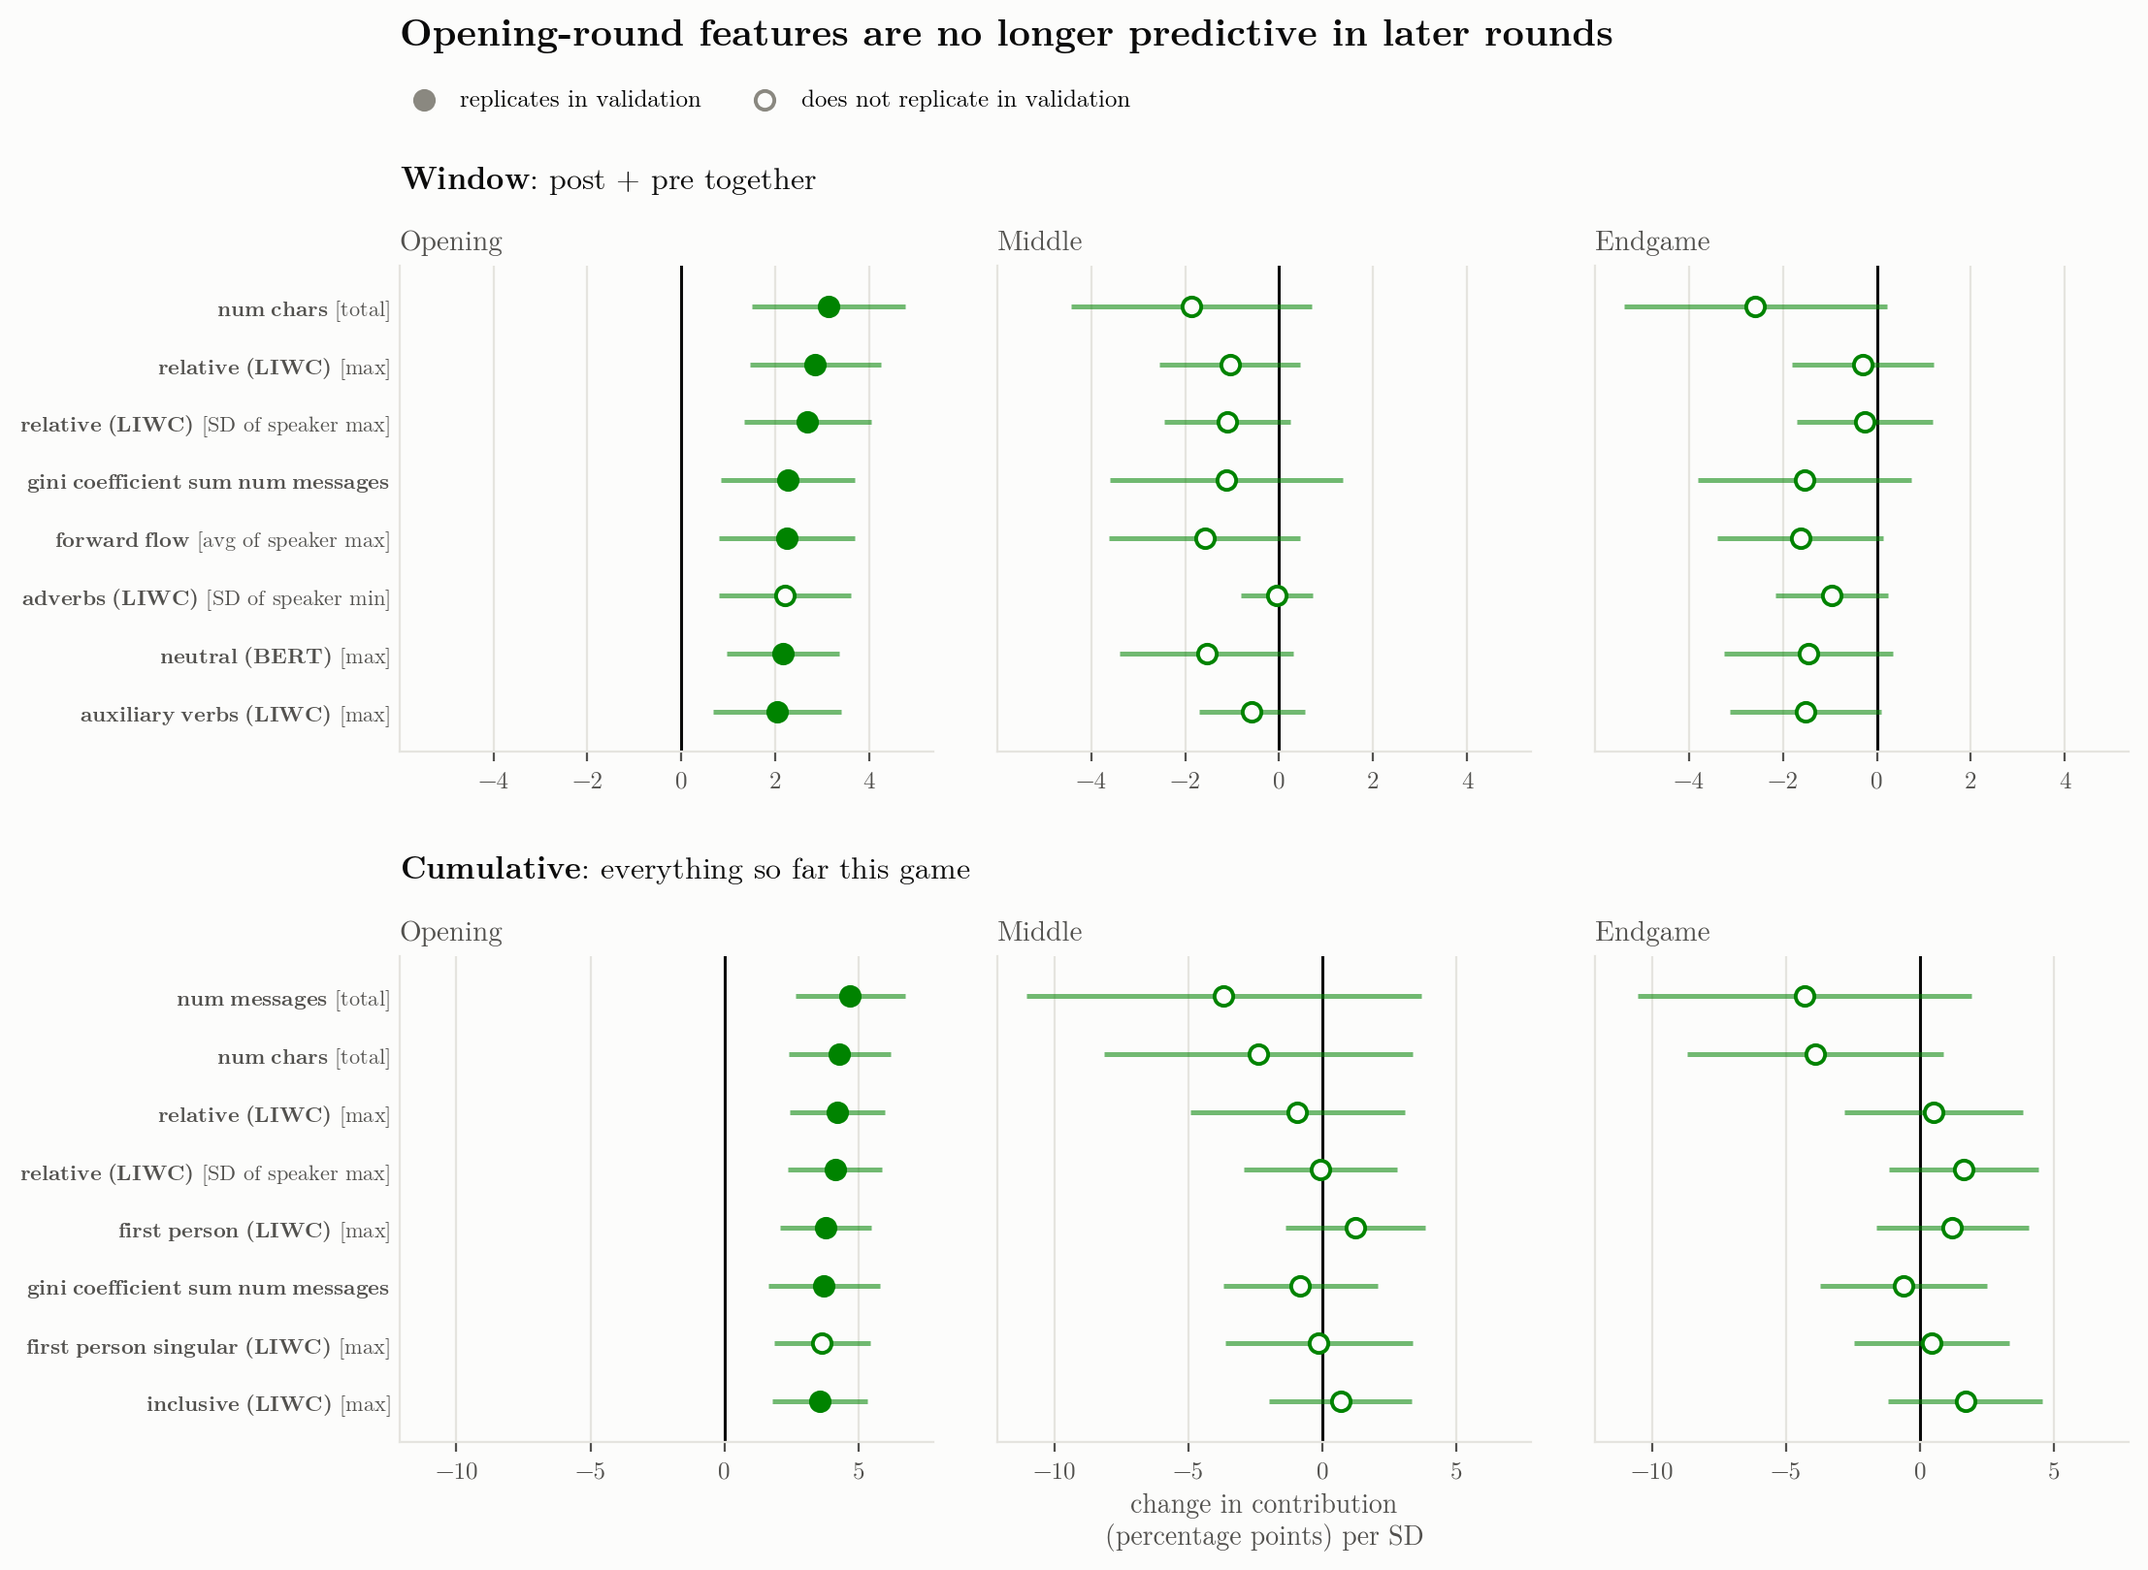
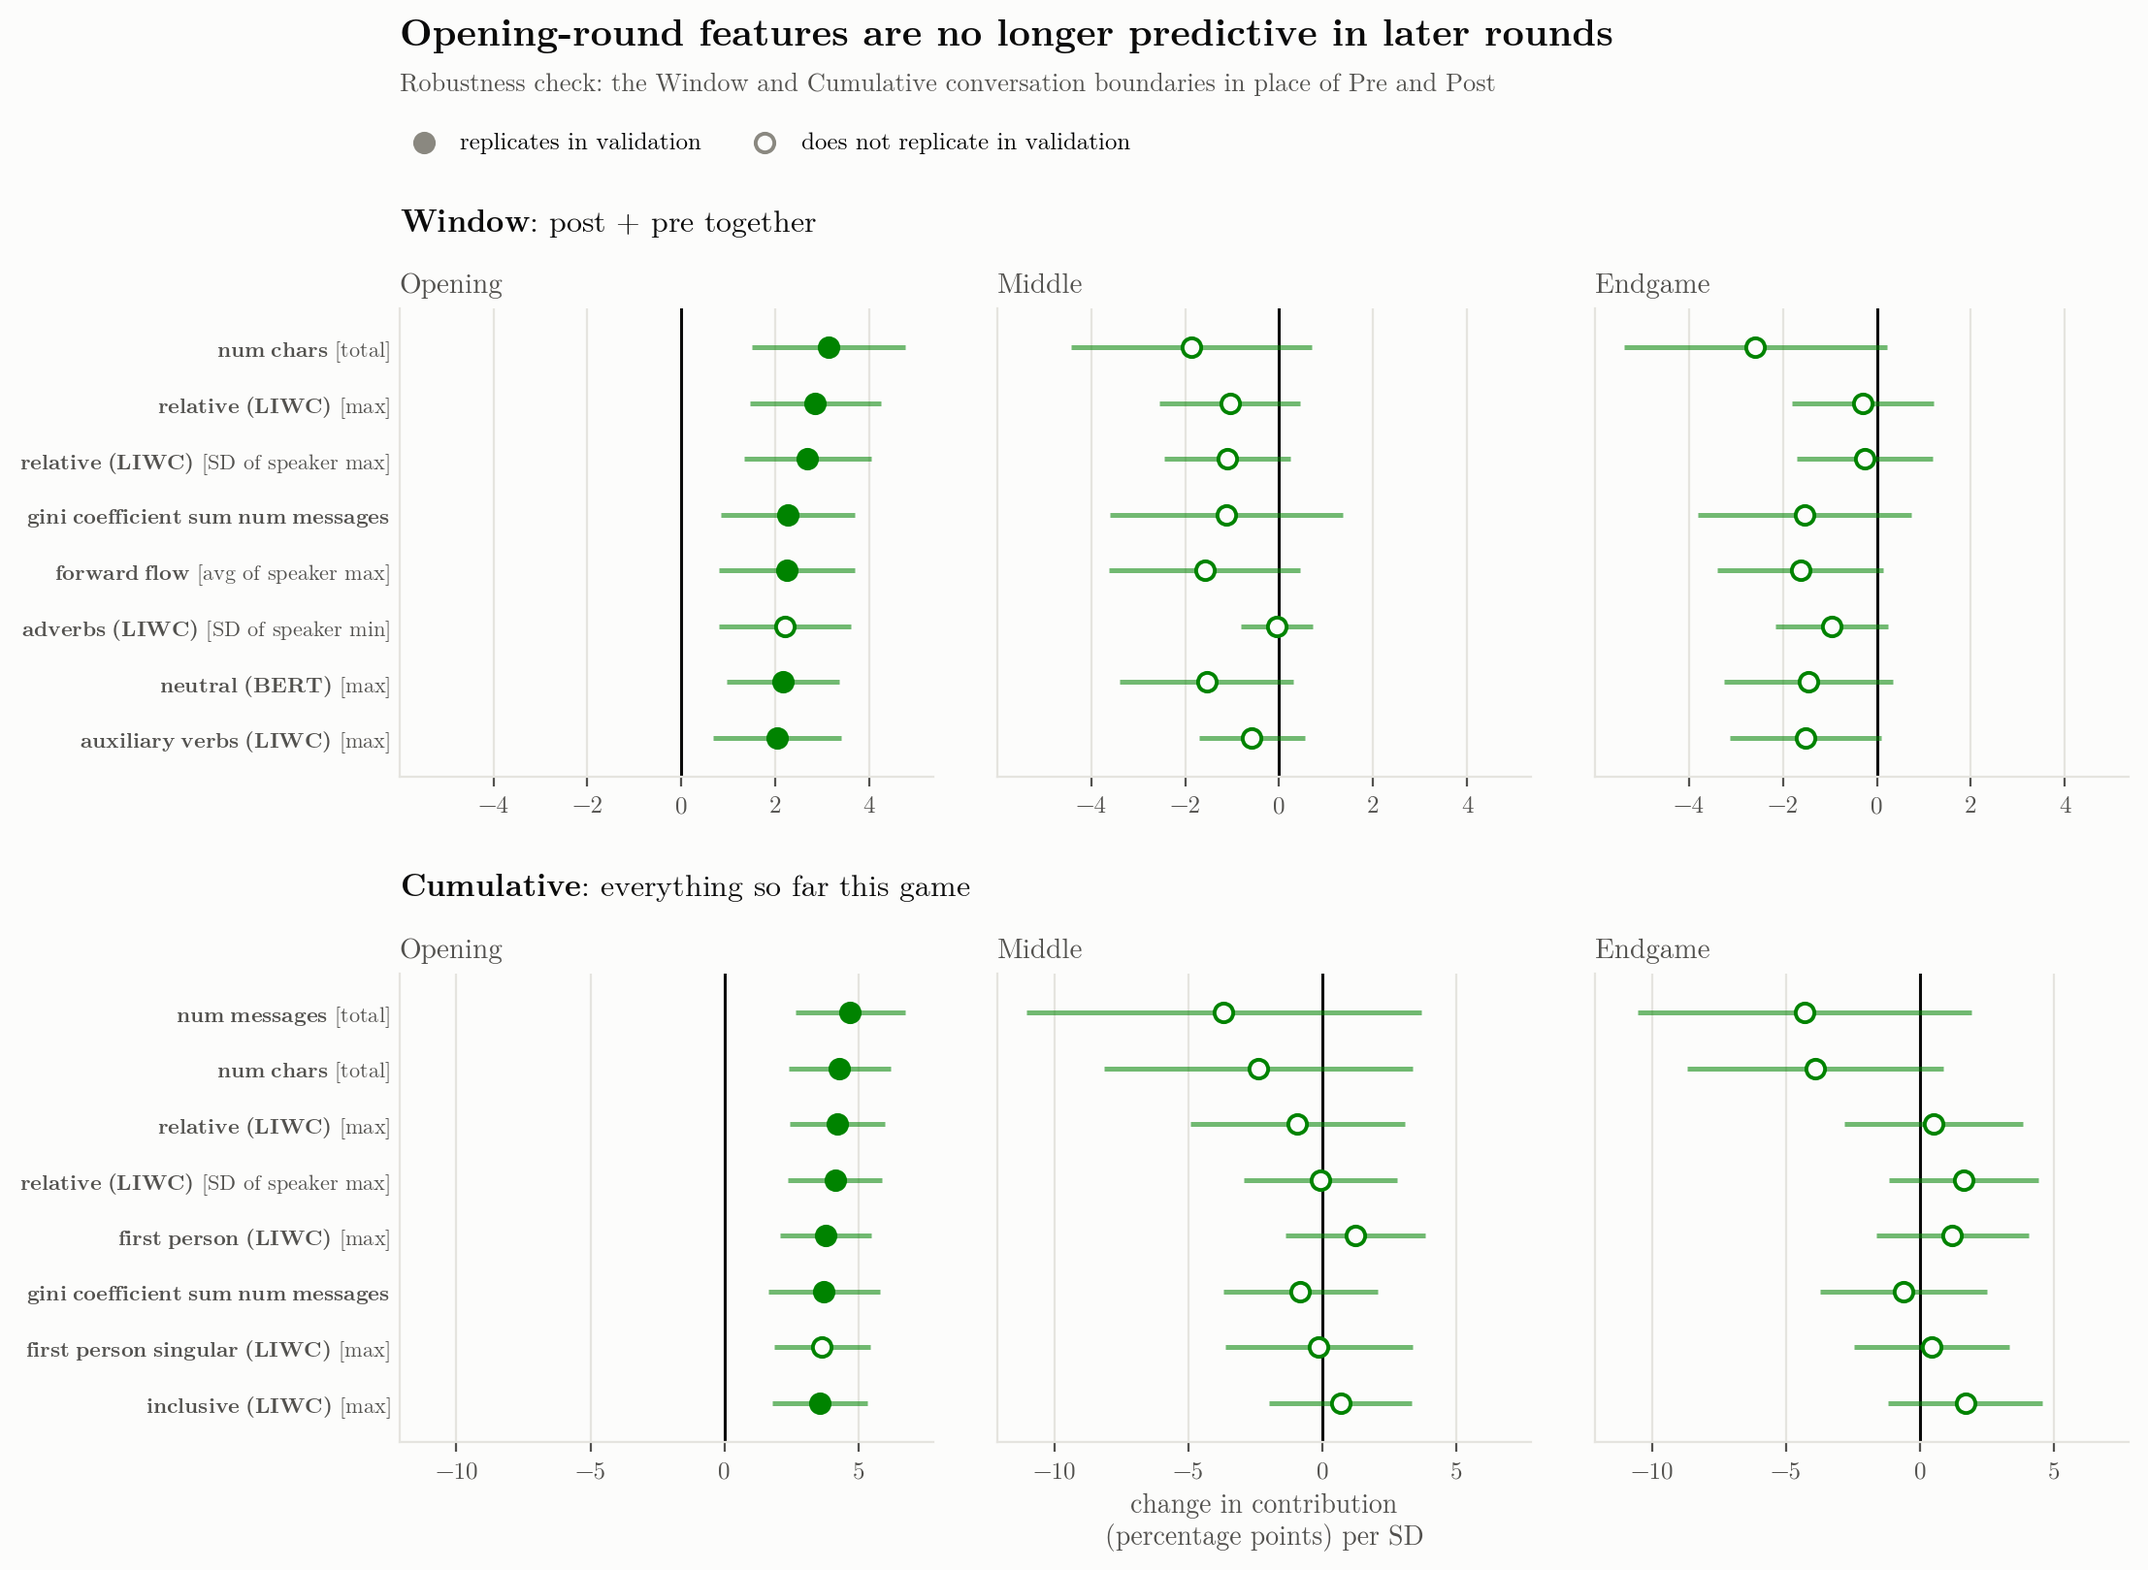
draw each appendix figure's variation into the image; reshape the cells table

diff --git a/outputs/tables/windows/appendix_cells_table.tex b/outputs/tables/windows/appendix_cells_table.tex
@@ -1,67 +1,46 @@
 % Generated by scripts/20_appendix_cells_table.py from
 % outputs/tables/windows/block_delta_r2.csv.
 % Do not edit by hand; re-run the script instead.
-\begin{longtable}{llrrrr}
-\caption{\textbf{Additional $R^2$ from Conversation, for Every Cell of the Design.} Each entry is the variance in a group's mean contribution explained by its conversation beyond the base model, under the ElasticNet. CV is cross-validated within the learning split; Held out is scored on the validation games. Bold marks the cells where both estimates clear zero in the same direction, the standard this appendix applies throughout; intervals are given in the section that discusses each test. Post in round 1 on the conversing sample has no rows.\label{tab:appendix_cells}}\\
+\begin{table}[ht]
+\centering
+\caption{\textbf{Additional $R^2$ from Conversation, for Every Cell of the Design.} Each entry is the variance in a group's mean contribution explained by its conversation beyond the base model, under the ElasticNet. CV is cross-validated within the learning split; HO is scored on the held-out validation games. Bold marks the cells where both estimates clear zero in the same direction, the standard this appendix applies throughout; intervals are given in the section that discusses each test. Post in round 1 on the conversing sample has no rows.\label{tab:appendix_cells}}
+\footnotesize
+\setlength{\tabcolsep}{4.5pt}
+\begin{tabular}{llrrrrrrrr}
 \toprule
- & & \multicolumn{2}{c}{\textbf{Channel sample}} & \multicolumn{2}{c}{\textbf{Conversing sample}} \\
-\cmidrule(lr){3-4}\cmidrule(lr){5-6}
-\textbf{Time period} & \textbf{Boundary} & \textbf{CV} & \textbf{Held out} & \textbf{CV} & \textbf{Held out} \\
+ & & \multicolumn{2}{c}{\textbf{Pre}} & \multicolumn{2}{c}{\textbf{Post}} & \multicolumn{2}{c}{\textbf{Window}} & \multicolumn{2}{c}{\textbf{Cumulative}} \\
+\cmidrule(lr){3-4}\cmidrule(lr){5-6}\cmidrule(lr){7-8}\cmidrule(lr){9-10}
+\textbf{Time period} & \textbf{Sample} & \textbf{CV} & \textbf{HO} & \textbf{CV} & \textbf{HO} & \textbf{CV} & \textbf{HO} & \textbf{CV} & \textbf{HO} \\
 \midrule
-\endfirsthead
-\toprule
-\textbf{Time period} & \textbf{Boundary} & \textbf{CV} & \textbf{Held out} & \textbf{CV} & \textbf{Held out} \\
-\midrule
-\endhead
+All rounds & Channel & +0.008 & -0.000 & +0.014 & +0.003 & +0.002 & +0.003 & -0.072 & +0.056 \\
+ & Conversing & +0.005 & +0.039 & +0.016 & +0.002 & -0.010 & +0.019 & +0.024 & +0.106 \\
+\addlinespace[2pt]
+Opening & Channel & -0.025 & +0.009 & \textbf{+0.044} & \textbf{+0.025} & \textbf{+0.042} & \textbf{+0.027} & \textbf{+0.047} & \textbf{+0.050} \\
+ & Conversing & -0.023 & +0.000 & \textbf{+0.071} & \textbf{+0.091} & \textbf{+0.056} & \textbf{+0.052} & +0.052 & +0.077 \\
+\addlinespace[2pt]
+Middle & Channel & -0.004 & +0.000 & -0.006 & +0.014 & -0.002 & +0.013 & -0.031 & +0.136 \\
+ & Conversing & +0.028 & -0.003 & +0.049 & +0.001 & +0.022 & -0.002 & -0.022 & +0.040 \\
+\addlinespace[2pt]
+Endgame & Channel & -0.010 & +0.020 & -0.005 & +0.015 & -0.013 & +0.011 & -0.019 & +0.011 \\
+ & Conversing & -0.066 & +0.025 & -0.021 & +0.005 & -0.077 & +0.036 & +0.003 & -0.093 \\
+\addlinespace[2pt]
+Round 1 & Channel & -0.003 & -0.002 & +0.000 & +0.000 & -0.032 & -0.003 & -0.029 & -0.016 \\
+ & Conversing & +0.073 & -0.020 & -- & -- & +0.068 & -0.020 & +0.107 & -0.027 \\
+\addlinespace[2pt]
+Round 2 & Channel & -0.015 & +0.006 & +0.021 & +0.006 & -0.012 & -0.017 & -0.043 & -0.006 \\
+ & Conversing & -0.001 & +0.000 & +0.002 & +0.034 & +0.048 & +0.001 & -0.001 & +0.000 \\
+\addlinespace[2pt]
+Round 3 & Channel & -0.002 & +0.000 & +0.019 & +0.022 & \textbf{+0.027} & \textbf{+0.031} & -0.142 & +0.070 \\
+ & Conversing & -0.099 & +0.000 & +0.165 & +0.021 & \textbf{+0.078} & \textbf{+0.050} & +0.088 & +0.131 \\
+\addlinespace[2pt]
+Rounds 4--6 & Channel & -0.009 & -0.000 & +0.016 & +0.009 & -0.008 & -0.017 & +0.020 & +0.050 \\
+ & Conversing & -0.031 & +0.030 & +0.051 & -0.004 & +0.049 & -0.000 & +0.054 & +0.100 \\
+\addlinespace[2pt]
+Rounds 7--10 & Channel & +0.010 & -0.002 & -0.009 & +0.002 & -0.015 & +0.001 & -0.023 & +0.143 \\
+ & Conversing & -0.085 & +0.117 & -0.030 & +0.032 & -0.014 & +0.012 & -0.021 & +0.104 \\
+\addlinespace[2pt]
+Rounds 11+ & Channel & +0.012 & +0.000 & +0.014 & +0.001 & +0.016 & -0.000 & -0.364 & +0.089 \\
+ & Conversing & +0.020 & +0.000 & +0.004 & +0.000 & +0.028 & +0.000 & -0.008 & -0.025 \\
 \bottomrule
-\endfoot
-All rounds & Pre & +0.008 & -0.000 & +0.005 & +0.039 \\
- & Post & +0.014 & +0.003 & +0.016 & +0.002 \\
- & Window & +0.002 & +0.003 & -0.010 & +0.019 \\
- & Cumulative & -0.072 & +0.056 & +0.024 & +0.106 \\
-\midrule
-Opening & Pre & -0.025 & +0.009 & -0.023 & +0.000 \\
- & Post & \textbf{+0.044} & \textbf{+0.025} & \textbf{+0.071} & \textbf{+0.091} \\
- & Window & \textbf{+0.042} & \textbf{+0.027} & \textbf{+0.056} & \textbf{+0.052} \\
- & Cumulative & \textbf{+0.047} & \textbf{+0.050} & +0.052 & +0.077 \\
-\midrule
-Middle & Pre & -0.004 & +0.000 & +0.028 & -0.003 \\
- & Post & -0.006 & +0.014 & +0.049 & +0.001 \\
- & Window & -0.002 & +0.013 & +0.022 & -0.002 \\
- & Cumulative & -0.031 & +0.136 & -0.022 & +0.040 \\
-\midrule
-Endgame & Pre & -0.010 & +0.020 & -0.066 & +0.025 \\
- & Post & -0.005 & +0.015 & -0.021 & +0.005 \\
- & Window & -0.013 & +0.011 & -0.077 & +0.036 \\
- & Cumulative & -0.019 & +0.011 & +0.003 & -0.093 \\
-\midrule
-Round 1 & Pre & -0.003 & -0.002 & +0.073 & -0.020 \\
- & Post & +0.000 & +0.000 & -- & -- \\
- & Window & -0.032 & -0.003 & +0.068 & -0.020 \\
- & Cumulative & -0.029 & -0.016 & +0.107 & -0.027 \\
-\midrule
-Round 2 & Pre & -0.015 & +0.006 & -0.001 & +0.000 \\
- & Post & +0.021 & +0.006 & +0.002 & +0.034 \\
- & Window & -0.012 & -0.017 & +0.048 & +0.001 \\
- & Cumulative & -0.043 & -0.006 & -0.001 & +0.000 \\
-\midrule
-Round 3 & Pre & -0.002 & +0.000 & -0.099 & +0.000 \\
- & Post & +0.019 & +0.022 & +0.165 & +0.021 \\
- & Window & \textbf{+0.027} & \textbf{+0.031} & \textbf{+0.078} & \textbf{+0.050} \\
- & Cumulative & -0.142 & +0.070 & +0.088 & +0.131 \\
-\midrule
-Rounds 4--6 & Pre & -0.009 & -0.000 & -0.031 & +0.030 \\
- & Post & +0.016 & +0.009 & +0.051 & -0.004 \\
- & Window & -0.008 & -0.017 & +0.049 & -0.000 \\
- & Cumulative & +0.020 & +0.050 & +0.054 & +0.100 \\
-\midrule
-Rounds 7--10 & Pre & +0.010 & -0.002 & -0.085 & +0.117 \\
- & Post & -0.009 & +0.002 & -0.030 & +0.032 \\
- & Window & -0.015 & +0.001 & -0.014 & +0.012 \\
- & Cumulative & -0.023 & +0.143 & -0.021 & +0.104 \\
-\midrule
-Rounds 11+ & Pre & +0.012 & +0.000 & +0.020 & +0.000 \\
- & Post & +0.014 & +0.001 & +0.004 & +0.000 \\
- & Window & +0.016 & -0.000 & +0.028 & +0.000 \\
- & Cumulative & -0.364 & +0.089 & -0.008 & -0.025 \\
-\end{longtable}
+\end{tabular}
+\end{table}

diff --git a/scripts/20_appendix_cells_table.py b/scripts/20_appendix_cells_table.py
@@ -33,6 +33,7 @@ BIN_LABEL = {"all rounds": "All rounds", "opening": "Opening", "middle": "Middle
              "round 3": "Round 3", "rounds 4-6": "Rounds 4--6",
              "rounds 7-10": "Rounds 7--10", "rounds 11+": "Rounds 11+"}
 SAMPLES = ["channel", "talkers"]
+SAMPLE_LABEL = {"channel": "Channel", "talkers": "Conversing"}
 
 
 def load():
@@ -68,45 +69,45 @@ def entry(row):
 
 def main():
     cells = load()
+    header_cols = " ".join(f"\\multicolumn{{2}}{{c}}{{\\textbf{{{BLOCK_LABEL[b]}}}}}"
+                           for b in BLOCKS)
+    cmid = "".join(f"\\cmidrule(lr){{{3 + 2 * i}-{4 + 2 * i}}}"
+                   for i in range(len(BLOCKS)))
     lines = [
         "% Generated by scripts/20_appendix_cells_table.py from",
         "% outputs/tables/windows/block_delta_r2.csv.",
         "% Do not edit by hand; re-run the script instead.",
-        "\\begin{longtable}{llrrrr}",
+        "\\begin{table}[ht]",
+        "\\centering",
         "\\caption{\\textbf{Additional $R^2$ from Conversation, for Every Cell of the Design.}"
         " Each entry is the variance in a group's mean contribution explained by its conversation"
         " beyond the base model, under the ElasticNet. CV is cross-validated within the learning"
-        " split; Held out is scored on the validation games. Bold marks the cells where both"
+        " split; HO is scored on the held-out validation games. Bold marks the cells where both"
         " estimates clear zero in the same direction, the standard this appendix applies"
         " throughout; intervals are given in the section that discusses each test. Post in round 1"
         " on the conversing sample has no rows."
-        "\\label{tab:appendix_cells}}\\\\",
+        "\\label{tab:appendix_cells}}",
+        "\\footnotesize",
+        "\\setlength{\\tabcolsep}{4.5pt}",
+        "\\begin{tabular}{ll" + "rr" * len(BLOCKS) + "}",
         "\\toprule",
-        " & & \\multicolumn{2}{c}{\\textbf{Channel sample}}"
-        " & \\multicolumn{2}{c}{\\textbf{Conversing sample}} \\\\",
-        "\\cmidrule(lr){3-4}\\cmidrule(lr){5-6}",
-        "\\textbf{Time period} & \\textbf{Boundary} & \\textbf{CV} & \\textbf{Held out}"
-        " & \\textbf{CV} & \\textbf{Held out} \\\\",
+        " & & " + " & ".join(header_cols.split(" ")) + " \\\\",
+        cmid,
+        "\\textbf{Time period} & \\textbf{Sample} & "
+        + " & ".join(["\\textbf{CV} & \\textbf{HO}"] * len(BLOCKS)) + " \\\\",
         "\\midrule",
-        "\\endfirsthead",
-        "\\toprule",
-        "\\textbf{Time period} & \\textbf{Boundary} & \\textbf{CV} & \\textbf{Held out}"
-        " & \\textbf{CV} & \\textbf{Held out} \\\\",
-        "\\midrule",
-        "\\endhead",
-        "\\bottomrule",
-        "\\endfoot",
     ]
     for i, b in enumerate(BINS):
         if i:
-            lines.append("\\midrule")
-        for j, block in enumerate(BLOCKS):
+            lines.append("\\addlinespace[2pt]")
+        for j, sample in enumerate(SAMPLES):
             label = BIN_LABEL[b] if j == 0 else ""
             values = []
-            for sample in SAMPLES:
+            for block in BLOCKS:
                 values.extend(entry(cells.get((b, block, sample))))
-            lines.append(f"{label} & {BLOCK_LABEL[block]} & " + " & ".join(values) + " \\\\")
-    lines.append("\\end{longtable}")
+            lines.append(f"{label} & {SAMPLE_LABEL[sample]} & "
+                         + " & ".join(values) + " \\\\")
+    lines += ["\\bottomrule", "\\end{tabular}", "\\end{table}"]
     OUT.write_text("\n".join(lines) + "\n")
     fitted = sum(1 for b in BINS for bl in BLOCKS for s in SAMPLES
                  if (b, bl, s) in cells)

diff --git a/scripts/13_window_figures.py b/scripts/13_window_figures.py
@@ -266,7 +266,8 @@ def sample_line(sample):
 
 
 def fig_c1_when(kind="elastic net", controls="rules+timing",
-                blocks=MAIN_BLOCKS, sample=MAIN_SAMPLE, out_dir=None, stem=None):
+                blocks=MAIN_BLOCKS, sample=MAIN_SAMPLE, out_dir=None, stem=None,
+                variation=None):
     """When in a game does conversation predict contribution, for each window."""
     table = read("block_delta_r2")
     sub = table[(table["binning"] == "stage") & (table["model_family"] == kind)
@@ -333,6 +334,7 @@ def fig_c1_when(kind="elastic net", controls="rules+timing",
         # the legend, and the tight bounding box takes them in.
         "Conversation predicts contribution only in the Opening rounds,\n"
         "after revealing contribution outcomes",
+        subtitle=variation,
         legend_from=axes[0], ncol=3, panel_titles=True, extra_top=0.10,
         headline_weight="bold", headline_size=14, legend_gap=0.18,
         legend_borderpad=0.0)
@@ -473,7 +475,7 @@ N_TRACKS = 8
 
 
 def fig_c3_across_stages(top_n=N_TRACKS, blocks=MAIN_BLOCKS, sample=MAIN_SAMPLE,
-                         out_dir=None, stem=None,
+                         out_dir=None, stem=None, variation=None,
                          headline="Opening-round features are no longer "
                                   "predictive in later rounds"):
     """Do the opening features keep predicting once the game is underway?
@@ -596,7 +598,7 @@ def fig_c3_across_stages(top_n=N_TRACKS, blocks=MAIN_BLOCKS, sample=MAIN_SAMPLE,
                        label="does not replicate in validation")
 
     style.header(
-        fig, axes, headline,
+        fig, axes, headline, subtitle=variation,
         legend_from=axes[0][0], ncol=2, panel_titles=True, extra_top=0.34,
         headline_weight="bold", headline_size=14, legend_borderpad=0.0)
     note = ""
@@ -629,15 +631,21 @@ if __name__ == "__main__":
 
     # Appendix, in the order the supplement reports them: the other sample, the
     # other model family, then the two wider windows.
-    fig_c1_when(sample="talkers", out_dir=APPENDIX_DIR,
+    TALKERS = ("Robustness check: silent game-rounds dropped, "
+               "rather than retained through the neutral fill")
+    FOREST = "Robustness check: the random forest in place of the ElasticNet"
+    WIDE = ("Robustness check: the Window and Cumulative conversation "
+            "boundaries in place of Pre and Post")
+    fig_c1_when(sample="talkers", out_dir=APPENDIX_DIR, variation=TALKERS,
                 stem="figS1_when_talk_matters_talkers_only")
-    fig_c3_across_stages(sample="talkers", out_dir=APPENDIX_DIR,
+    fig_c3_across_stages(sample="talkers", out_dir=APPENDIX_DIR, variation=TALKERS,
                          stem="figS2_effects_across_stages_talkers_only")
-    fig_c1_when(kind="random forest", out_dir=APPENDIX_DIR,
+    fig_c1_when(kind="random forest", out_dir=APPENDIX_DIR, variation=FOREST,
                 stem="figS3_when_talk_matters_random_forest")
-    fig_c1_when(blocks=APPENDIX_BLOCKS, out_dir=APPENDIX_DIR,
+    fig_c1_when(blocks=APPENDIX_BLOCKS, out_dir=APPENDIX_DIR, variation=WIDE,
                 stem="figS4_when_talk_matters_wide_windows")
     fig_c3_across_stages(blocks=APPENDIX_BLOCKS, out_dir=APPENDIX_DIR,
+                         variation=WIDE,
                          stem="figS5_effects_across_stages_wide_windows")
 
     # fig_c2_opening_features() is deliberately not part of the figure set: it is a
